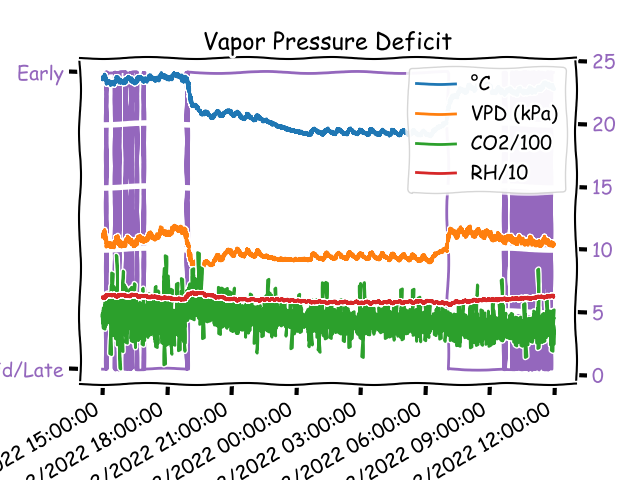
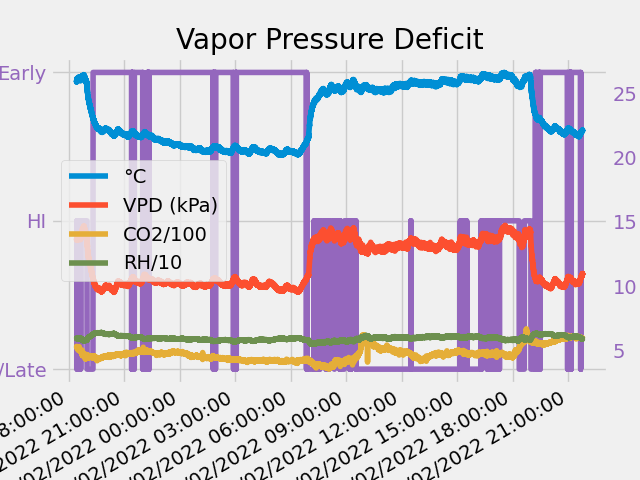
Changed plot from xkcd to 538

diff --git a/MATPLOTLIB/2Axes.py b/MATPLOTLIB/2Axes.py
@@ -7,8 +7,8 @@ import pandas as pd
 import csv
 
 #plt.style.use('seaborn')
-#plt.style.use("fivethirtyeight")
-plt.xkcd()
+plt.style.use("fivethirtyeight")
+#plt.xkcd()
 
 #Date,Status,CO2,°C,RH,DP,VPAct,VPSat,VPD
 data = pd.read_csv('VPD.csv')
